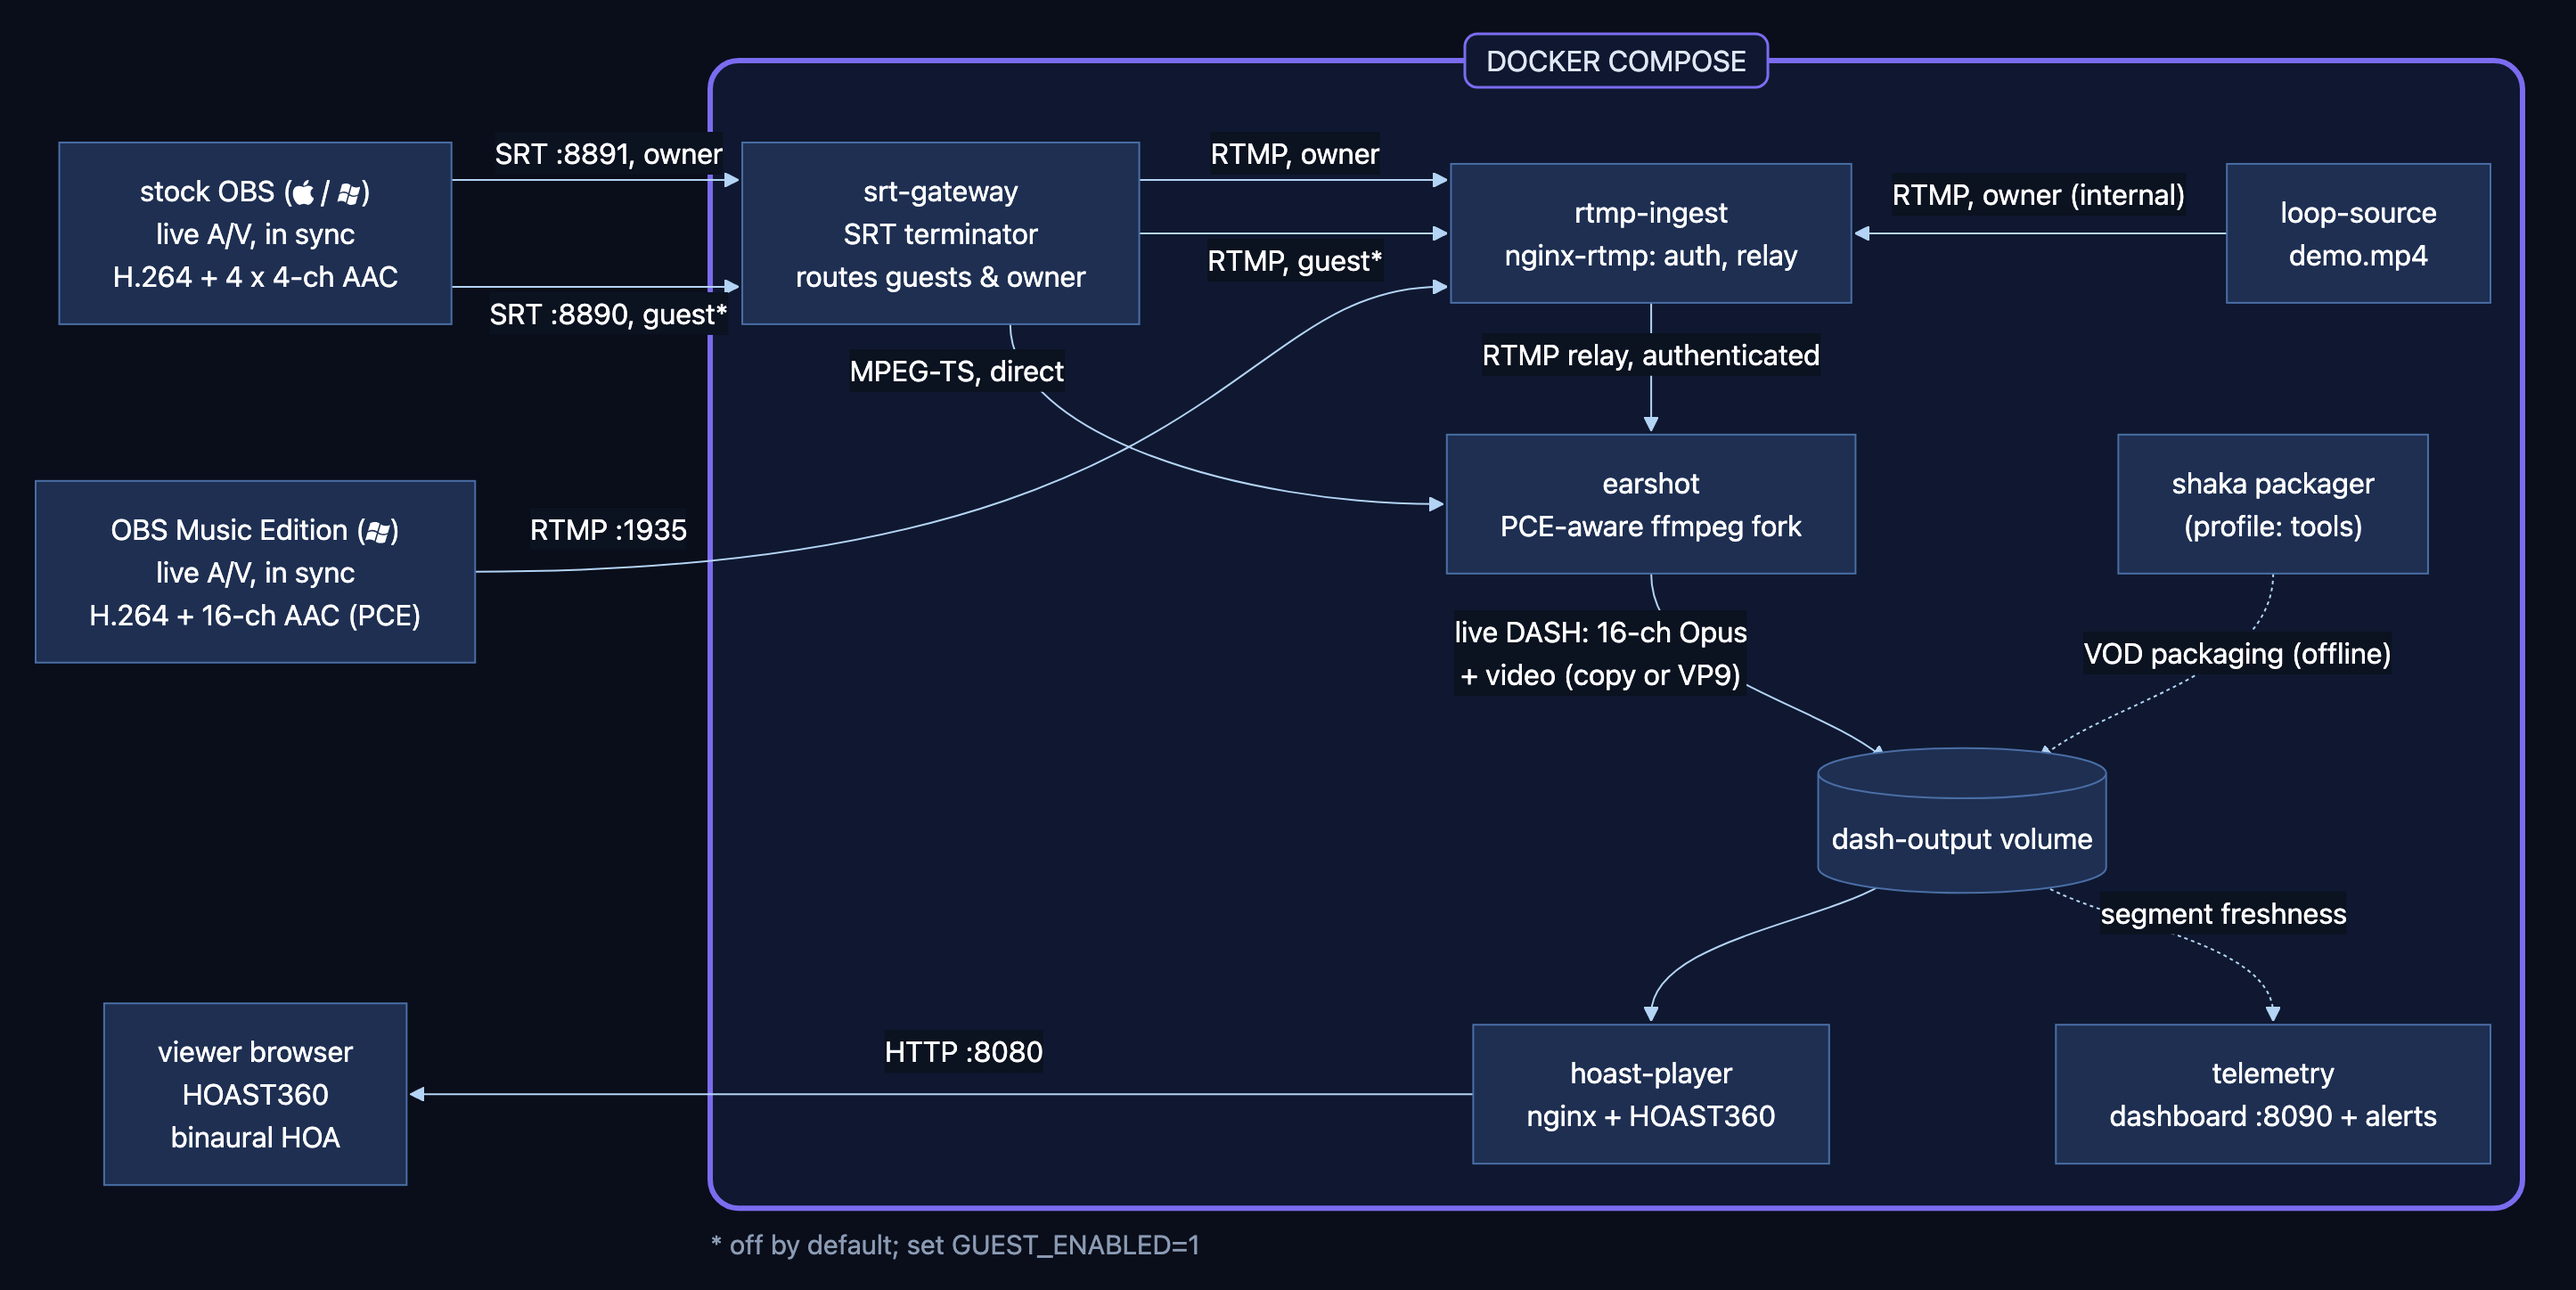
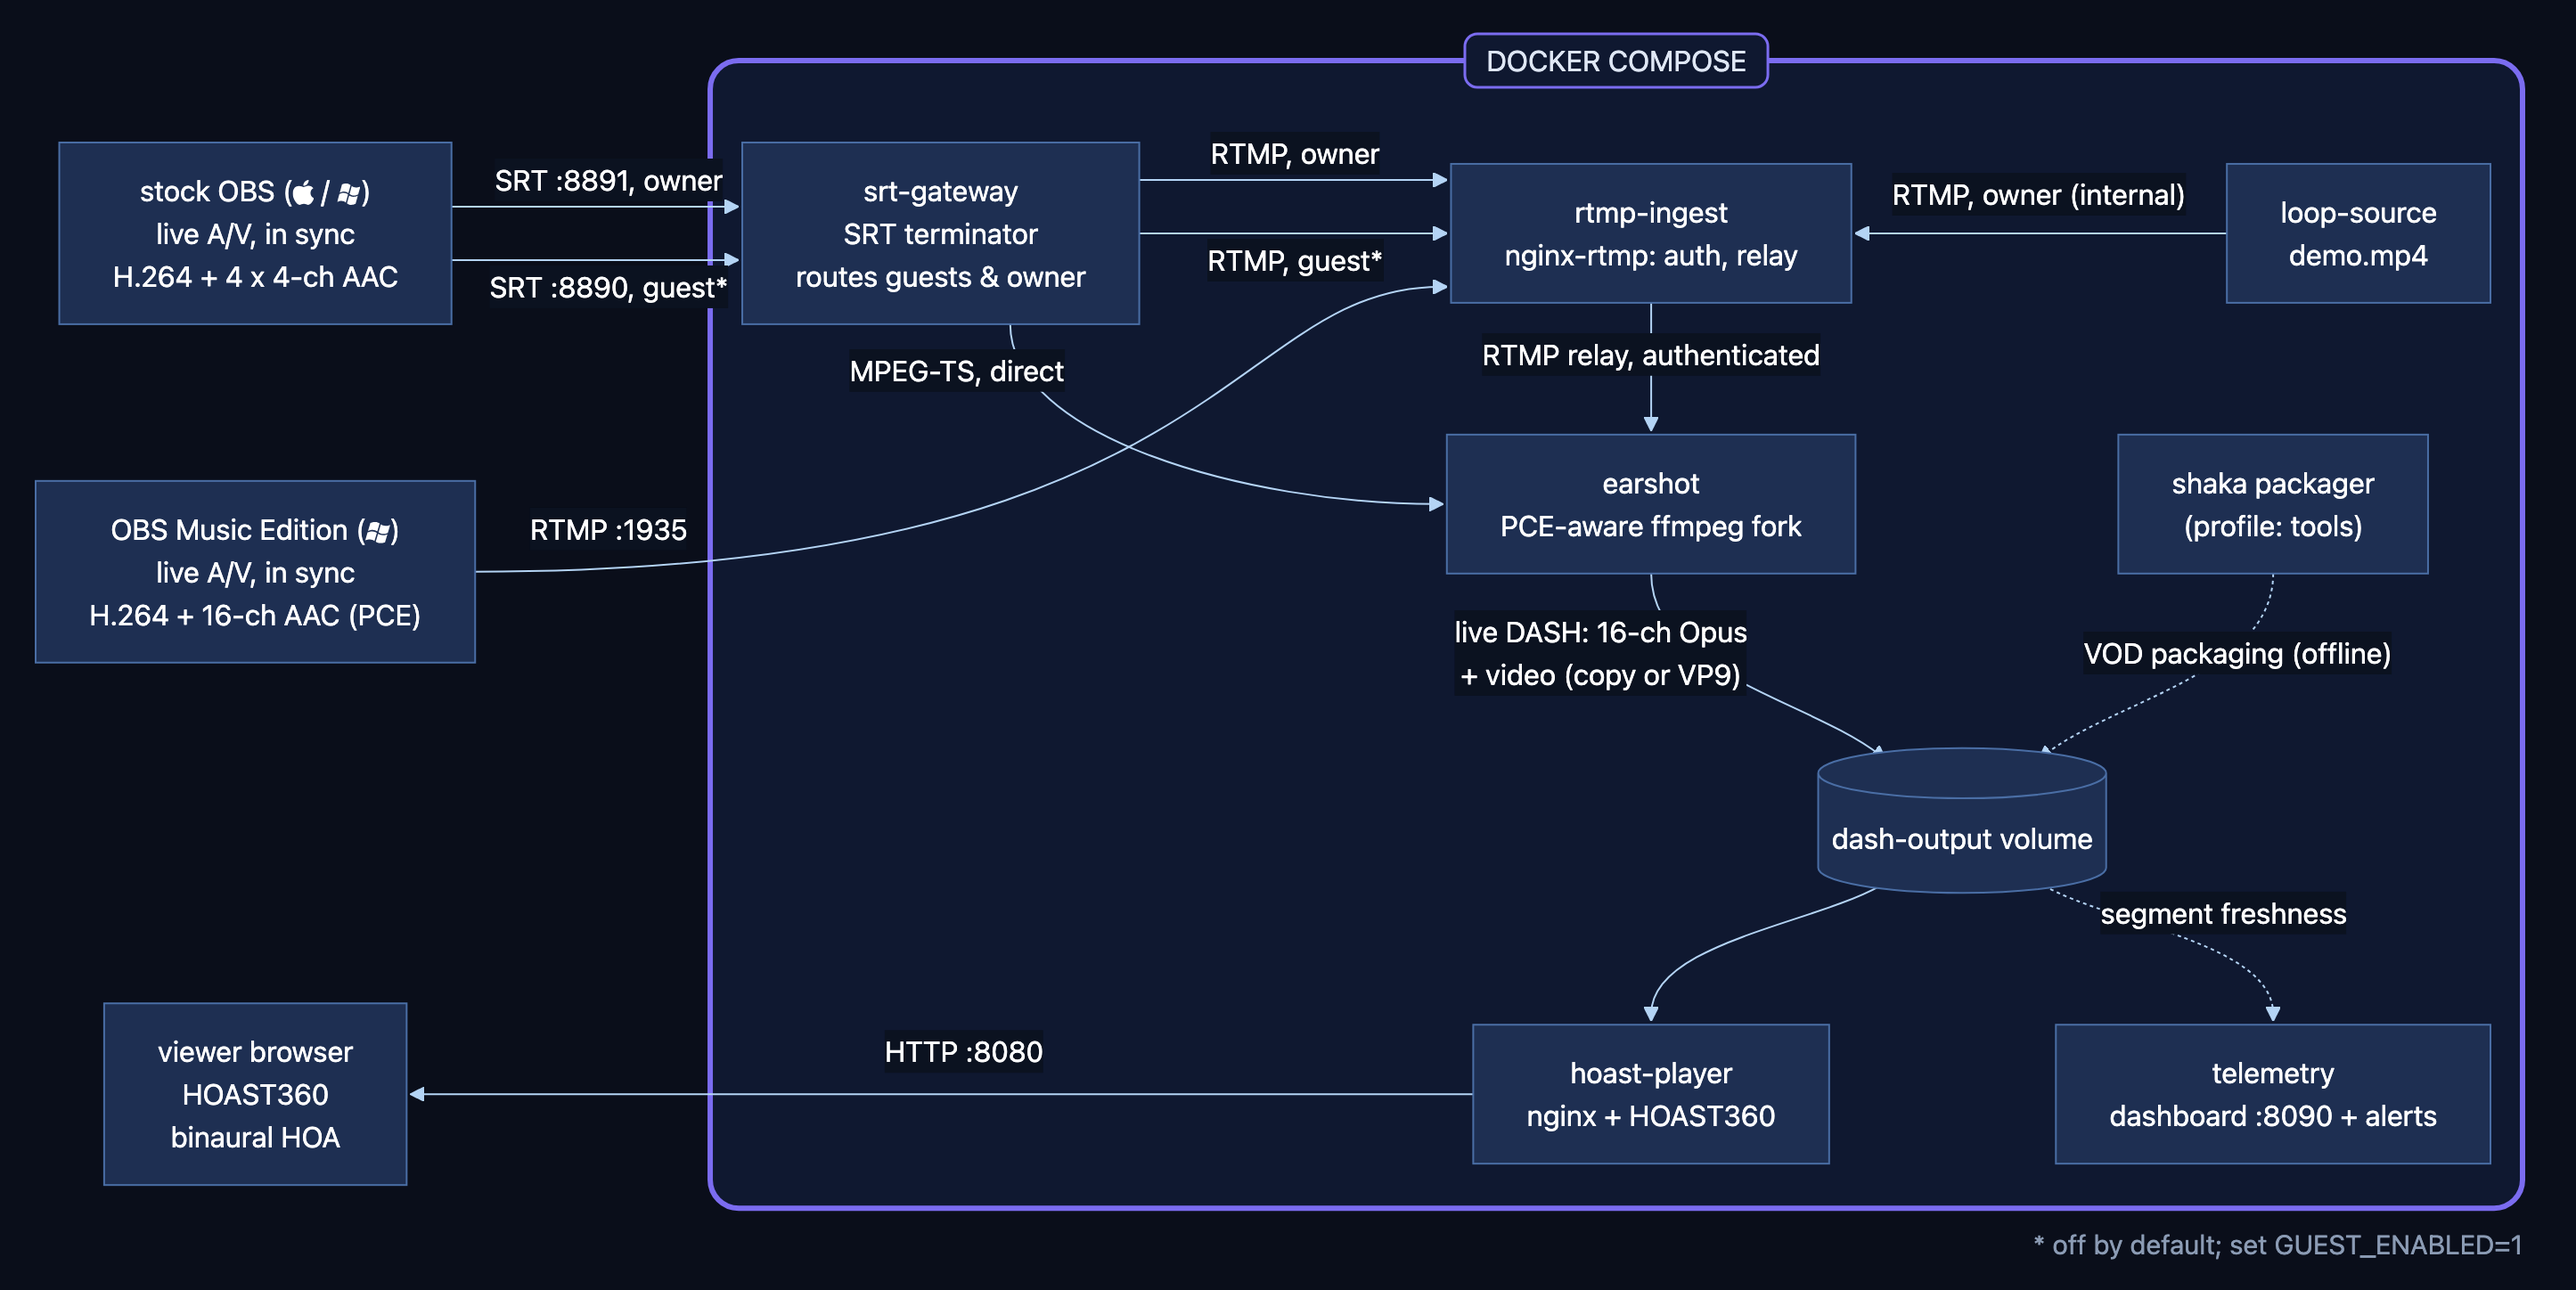
Architecture diagram: one spacing for both parallel pairs, legend to the right
The SRT pair sat 60px apart while the RTMP pair sat 30, so two drawings of
the same idea read as two different gestures. ARROW_SEP is now the single
constant behind both, and the SRT pair straddles the gateway row at half of
it either side. Defining it once means they cannot drift apart again.

The legend moves to the bottom right. Left-aligned, it sat under the
viewer/OBS gutter where the eye is still tracking the data path; right of
the last node the strip is genuinely empty.

It stays IN the figure rather than moving to the README caption, because
the SVG is meant to be opened directly (this directory's README says so) and
the PNG gets reused on its own. A figure that uses a footnote marker has to
carry the footnote, or the `*` is unexplained everywhere except one caption.

diff --git a/docs/architecture/postprocess.py b/docs/architecture/postprocess.py
@@ -250,9 +250,13 @@ def set_label(eid, lx, ly):
 #    owner instance, :8890 the guest one - so a single "SRT" arrow hid the one
 #    thing a sender has to get right. The box already stands for both
 #    instances (see this directory's README); now its input side says so.
-SRT_SEP = 30.0
+# ARROW_SEP is the ONE spacing both parallel pairs use, so the SRT pair and the
+# RTMP pair read as the same gesture rather than two different ones. It is the
+# gap BETWEEN the two lines; the SRT pair straddles the gateway row, so each of
+# its lines sits half that from the centre.
+ARROW_SEP = 30.0
 sr_sx, sr_ex = SX + shw, GX - ghw - 6.0
-SRT_OWNER_Y, SRT_GUEST_Y = GY - SRT_SEP, GY + SRT_SEP
+SRT_OWNER_Y, SRT_GUEST_Y = GY - ARROW_SEP / 2.0, GY + ARROW_SEP / 2.0
 set_edge('L_SRTOBS_GATEWAY_0', f"M{sr_sx},{SRT_OWNER_Y}L{sr_ex},{SRT_OWNER_Y}")
 set_edge('L_SRTOBS_GATEWAY_2', f"M{sr_sx},{SRT_GUEST_Y}L{sr_ex},{SRT_GUEST_Y}")
 # All three port labels share one x so they line up vertically. It is the
@@ -279,7 +283,6 @@ set_label('L_SRTOBS_GATEWAY_2', PORT_LX, SRT_GUEST_Y + 15.0)
 # guest exists only where the operator turned it on. Order therefore comes
 # from the source file - the first edge of each pair takes the top slot - so
 # swapping the two lines in architecture.mmd swaps them in the drawing.
-ARROW_SEP = 30.0
 g_sx, g_ex = GX + ghw, ix - ihw - 6.0
 OWNER_Y, GUEST_Y = iy - ARROW_SEP, iy
 set_edge('L_GATEWAY_INGEST_0', f"M{g_sx},{OWNER_Y}L{g_ex},{OWNER_Y}")
@@ -382,11 +385,15 @@ s = re.sub(r'(<g class="cluster-label ?" transform="translate\()[-\d.]+,\s*[-\d.
 #     Written as plain SVG <text> rather than a mermaid node: dagre would lay
 #     a node out inside the graph, and this belongs beside the drawing, not in
 #     it. Sits under the box's bottom-left corner; the viewBox grows to fit.
+#     Right-aligned under the box's right wall: the left end of that strip sits
+#     directly below the viewer/OBS gutter, where a reader's eye is still
+#     tracking the data path, whereas the right end is past the last node and
+#     genuinely empty.
 LEGEND_TEXT = "* off by default; set GUEST_ENABLED=1"
 LEGEND_GAP  = 26.0
 legend_y = box_bottom + LEGEND_GAP
 s = s.replace('</svg>',
-              f'<text x="{box_left:.2f}" y="{legend_y:.2f}" '
+              f'<text x="{box_right:.2f}" y="{legend_y:.2f}" text-anchor="end" '
               f'style="font-family:-apple-system,BlinkMacSystemFont,\'Segoe UI\',Roboto,'
               f'Helvetica,Arial,sans-serif;font-size:15px;fill:#8b9bb4">{LEGEND_TEXT}</text></svg>', 1)
 
